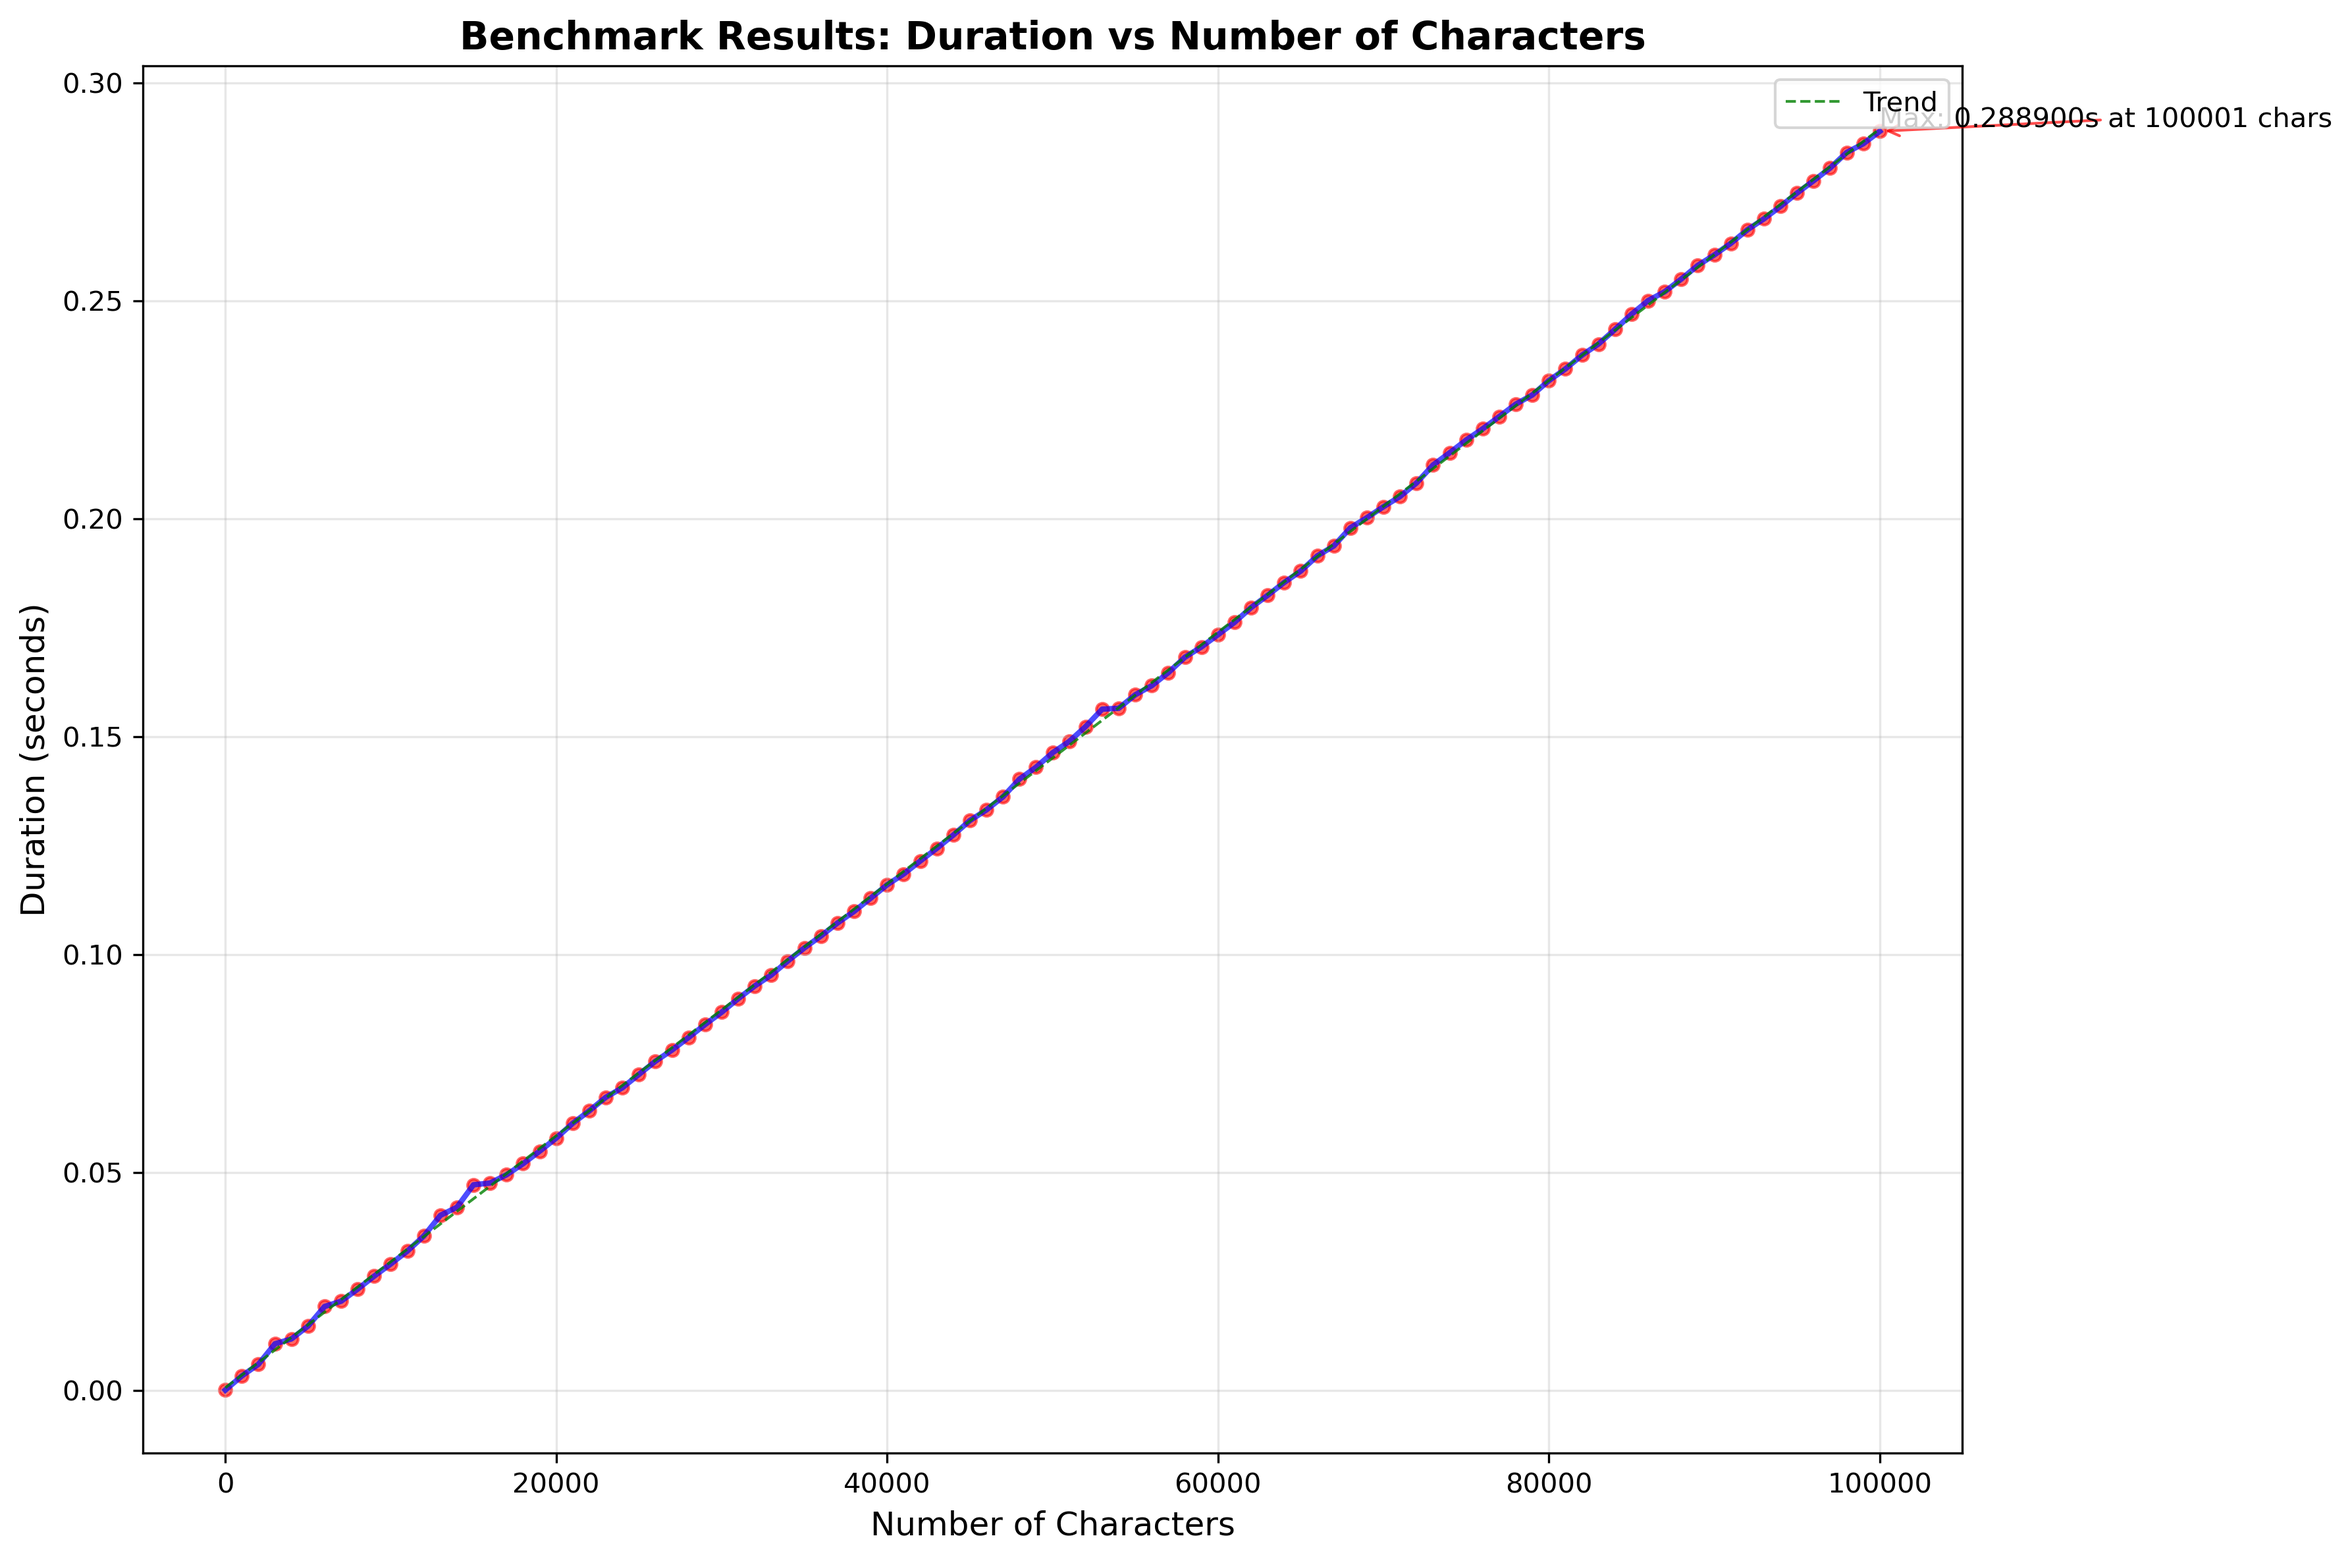
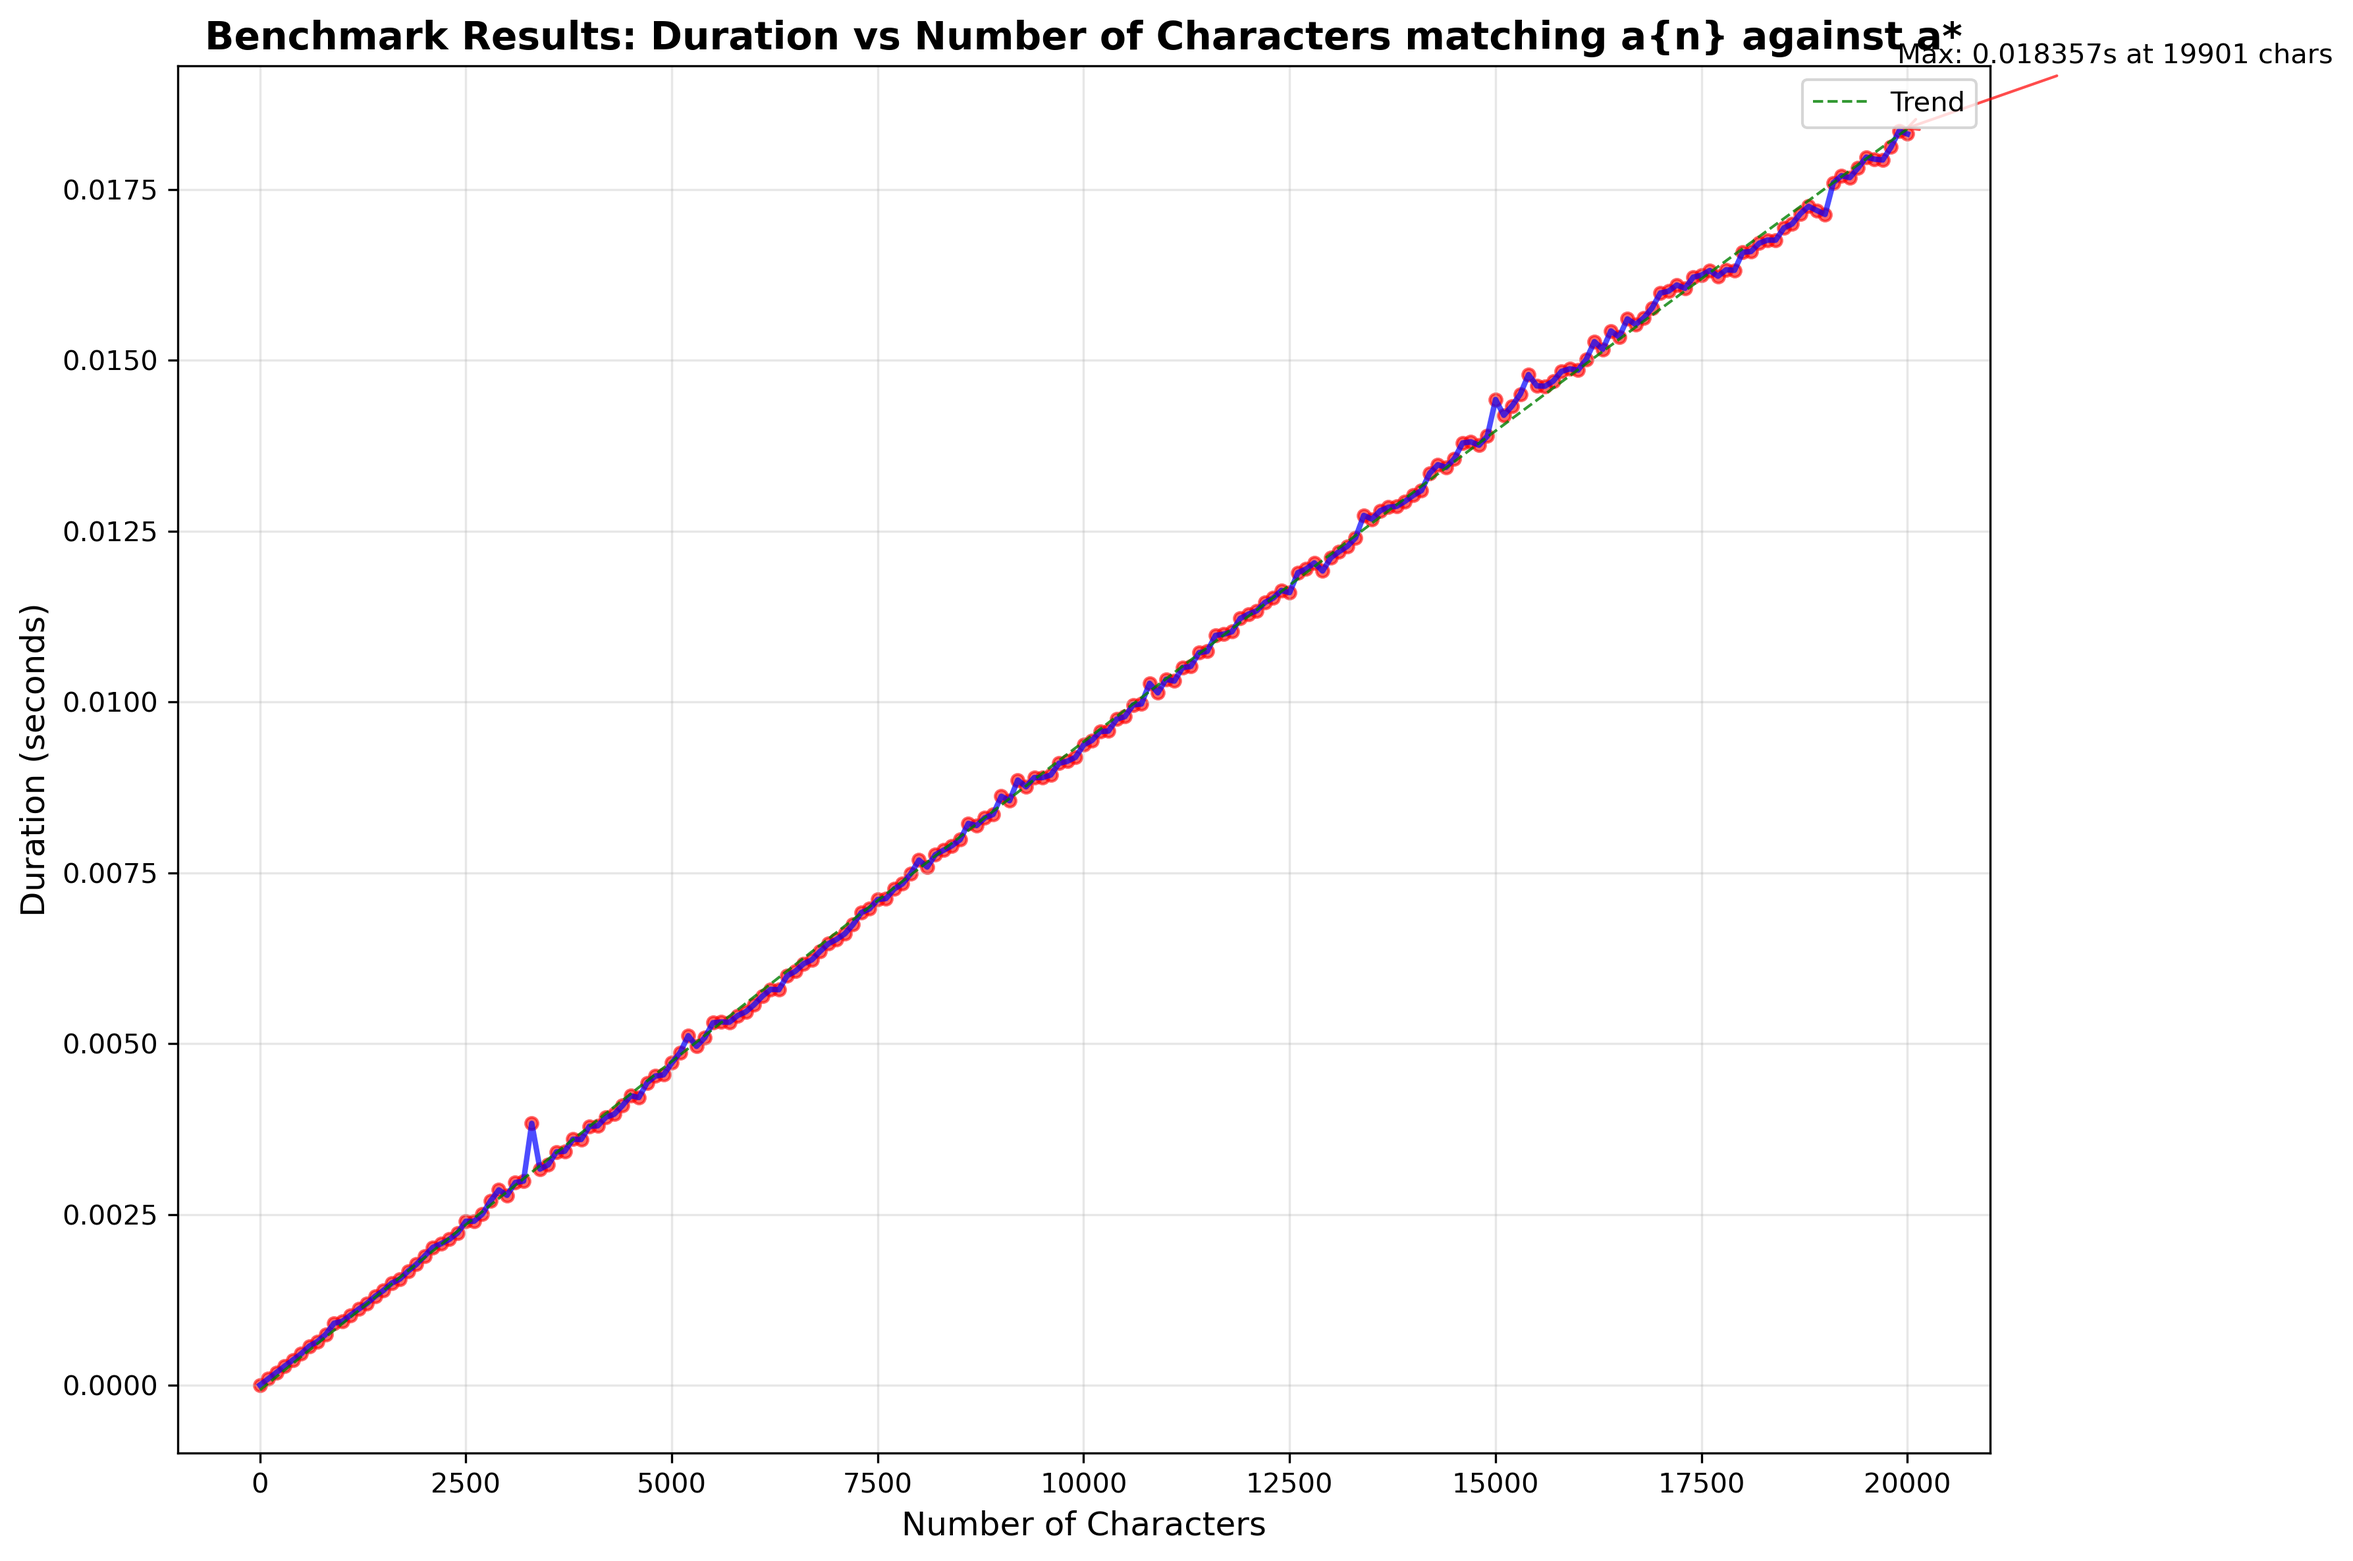
fix benchmark

diff --git a/src/benchmark/benchmark_dfa.rs b/src/benchmark/benchmark_dfa.rs
@@ -6,20 +6,20 @@ use crate::parse::parse;
 
 /// I think this behaves quadratically, so yay i guess at least better than exponential lol oops
 pub fn benchmark_dfa_klenee(max: usize, step_size: usize) {
-    let pattern = "ba*b";
+    let pattern = "a*";
     let before_parse = Instant::now();
     let (dfa, dfa_reversed) = build_finding_dfas(pattern);
     println!("construction: {:?}", before_parse.elapsed());
 
     let mut times: Vec<Duration> = Vec::new();
     for i in (1..=(max + 1)).step_by(step_size) {
-        let mut word = String::from("b");
+        let mut word = String::from("");
         word.extend("a".repeat(i).chars());
-        word.push('b');
+        // word.push('b');
         let before_match = Instant::now();
         let found_match = dfa.find(&word, &dfa_reversed);
         times.push(before_match.elapsed());
-        assert_eq!(found_match, Some((0, i + 1)));
+        assert_eq!(found_match, Some((0, i - 1)));
         println!("{}: {:?}", i, times.last().unwrap())
     }
     export_benchmark_to_csv("dfa_klenee.csv", times, step_size);

diff --git a/src/automata.rs b/src/automata.rs
@@ -471,8 +471,8 @@ impl Dfa {
     /// Why am I using an ASM for this
     /// note: `input` is in actuality reverse of the word we're searching, while `reversed` is the dfa describing the pattern in the correct orientation
     pub fn find_all(&self, input: &str, reversed: &Dfa) -> Option<Vec<(usize, usize)>> {
-        print!("{:?}", self);
-        println!("{:?}", reversed);
+        // print!("{:?}", self);
+        // println!("{:?}", reversed);
         let ends = self._find_ends(input, true);
         if ends.is_empty() {
             return None;

diff --git a/src/benchmark/results/plot_benchmark.py b/src/benchmark/results/plot_benchmark.py
@@ -20,7 +20,7 @@ def main():
     # Customize the plot
     plt.xlabel('Number of Characters', fontsize=12)
     plt.ylabel('Duration (seconds)', fontsize=12)
-    plt.title('Benchmark Results: Duration vs Number of Characters', fontsize=14, fontweight='bold')
+    plt.title('Benchmark Results: Duration vs Number of Characters matching a{n} against a*', fontsize=14, fontweight='bold')
     plt.grid(True, alpha=0.3)
 
     # Add some statistics to the plot

diff --git a/src/main.rs b/src/main.rs
@@ -11,6 +11,6 @@ mod test;
 mod benchmark;
 
 fn main() {
-    benchmark_dfa_klenee(100000, 1000);
+    benchmark_dfa_klenee(20000, 100);
 
 }
